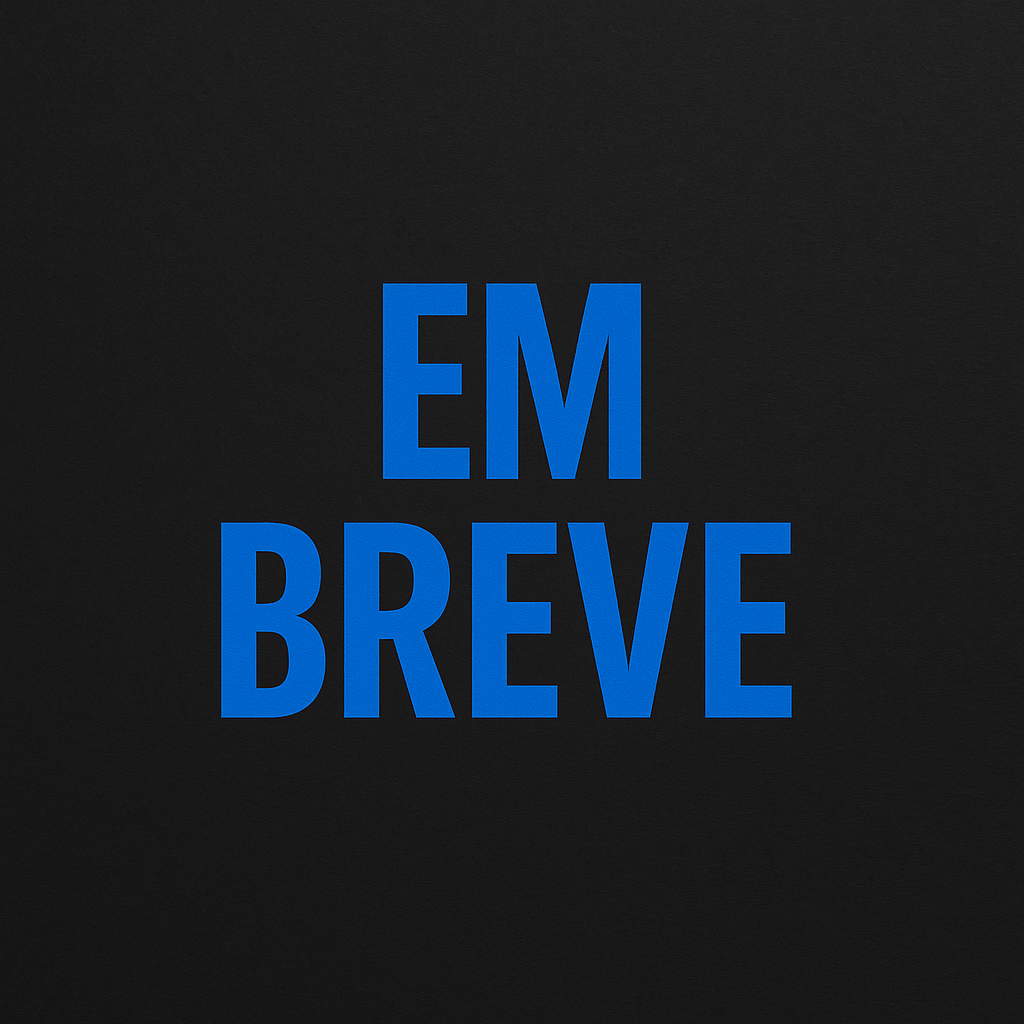
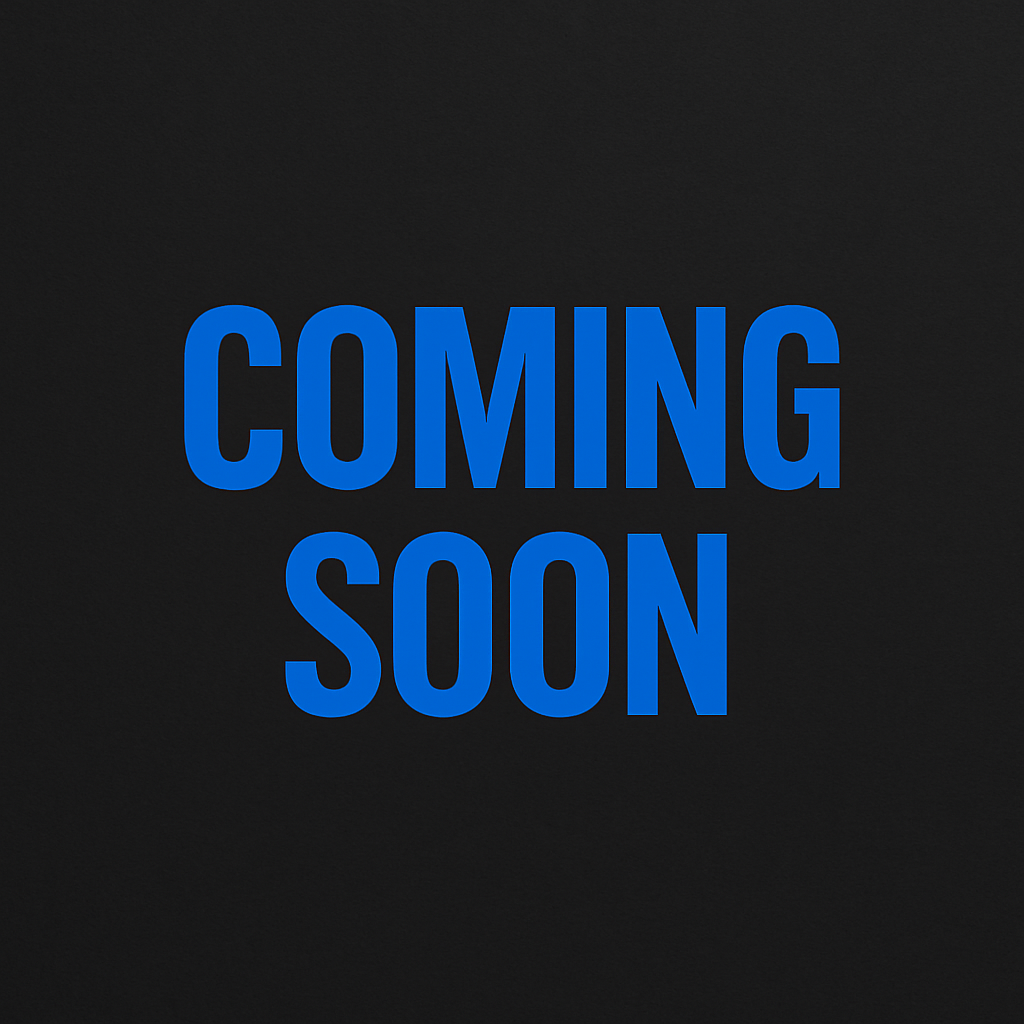
To english

Changed region(s): [[0.1562, 0.25, 0.8438, 0.7188]]

diff --git a/feedback.html b/feedback.html
@@ -25,7 +25,7 @@
                 <hr>
                 <p class="subtitle">LEAVE YOUR FEEDBACK</p>
 
-                <form action="https://formspree.io/f/{your_email_here}" method="POST">
+                <form action="https://formspree.io/f/xanjevpa" method="POST">
                     
                     <div class="input-group">
                         <label for="name">Full Name</label>
